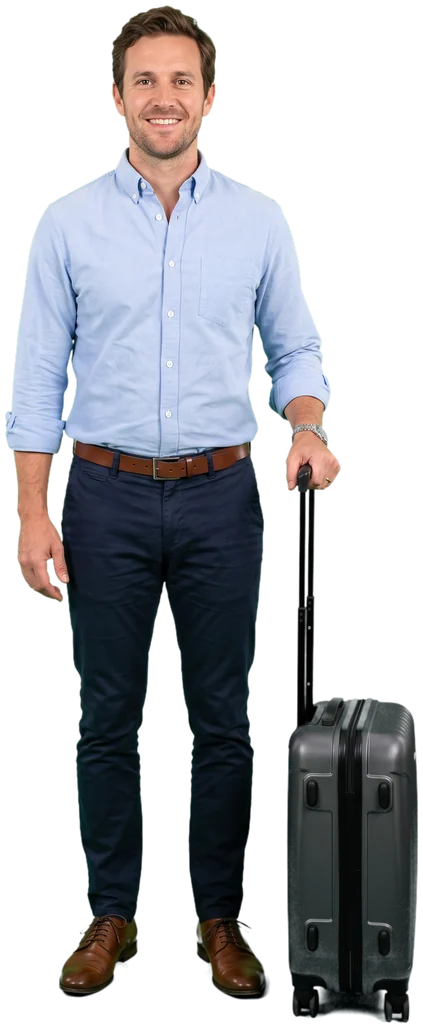
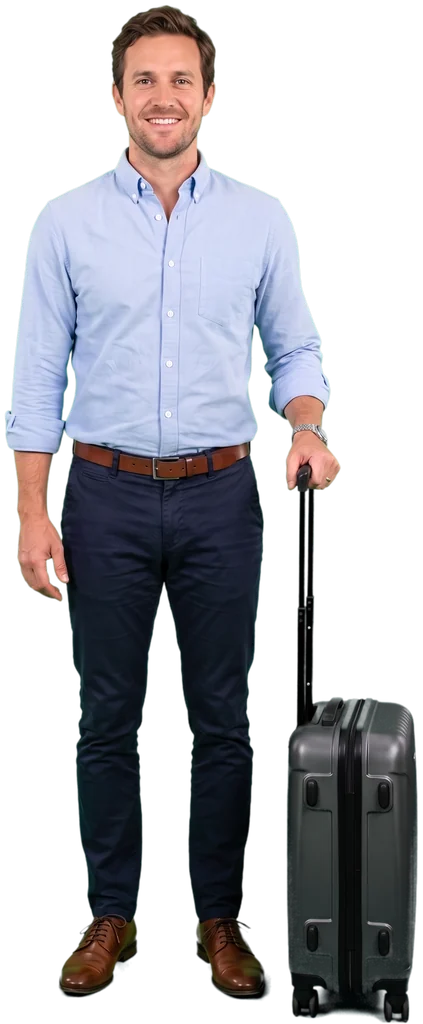
Profile: the photographed corridor film opens the main profile too; taller people
The main profile now opens with the same scroll-driven corridor film as the
cinematic draft, ending at the closed door of a unit and fading into the next
section. The draft's photo feature cards stay a setting (photoCards in
data.json), off here.

Rashid has a new picture with the ghutra and agal set the Emirati way, like
the owner's reference, plus a standing picture for his room scenes; James is
taller. Both stand taller in the 3D view. New photos of Rashid's living room,
crowded and tidy, for his story.

Claude-Session: https://claude.ai/code/session_01TqqT4jen4ojND2s3ts632h

diff --git a/profile/assets/js/data.js b/profile/assets/js/data.js
@@ -1,1 +1,1 @@
-window.RV_DATA={"phone":"+971503250551","phoneDisplay":"050 325 0551","wa":"971503250551","email":"info@ravelstorage.com","site":"https://ravelstorage.com","instagram":"https://www.instagram.com/ravelstorage/","height":3,"sizes":[{"a":1,"w":1,"d":1,"exact":true,"price":300,"photo":"unit-1","fits":"r1"},{"a":2,"w":1,"d":2,"exact":true,"price":400,"photo":null,"fits":"r1"},{"a":4,"w":2,"d":2,"exact":true,"price":600,"photo":null,"fits":"r2"},{"a":5,"w":2,"d":2.5,"exact":true,"price":700,"photo":null,"fits":"r2"},{"a":6,"w":2,"d":3,"exact":true,"price":800,"photo":"unit-6","fits":"r2"},{"a":7,"w":2,"d":3.5,"exact":true,"price":900,"photo":null,"fits":"r2p"},{"a":8,"w":2,"d":4,"exact":true,"price":1000,"photo":null,"fits":"r2p"},{"a":9,"w":3,"d":3,"exact":true,"price":1100,"photo":null,"fits":"r3"},{"a":10,"w":2.5,"d":4,"exact":true,"price":1200,"photo":null,"fits":"r3"},{"a":12,"w":3,"d":4,"exact":true,"price":1500,"photo":null,"fits":"r3"},{"a":15,"w":3,"d":5,"exact":true,"price":null,"photo":"unit-15","fits":"r4"},{"a":16,"w":4,"d":4,"exact":true,"price":2000,"photo":null,"fits":"r4"},{"a":20,"w":4,"d":5,"exact":true,"price":2400,"photo":null,"fits":"r4"},{"a":25,"w":5,"d":5,"exact":true,"price":3000,"photo":"unit-25","fits":"r5"},{"a":30,"w":5,"d":6,"exact":true,"price":3500,"photo":null,"fits":"r5"},{"a":50,"w":5,"d":10,"exact":true,"price":null,"photo":null,"fits":"r6"},{"a":100,"w":10,"d":10,"exact":true,"price":null,"photo":"unit-100","fits":"r7"}],"guide":[{"from":1,"to":2,"fits":"r1","show":1},{"from":4,"to":6,"fits":"r2","show":4},{"from":7,"to":8,"fits":"r2p","show":7},{"from":9,"to":12,"fits":"r3","show":9},{"from":15,"to":20,"fits":"r4","show":15},{"from":20,"to":30,"fits":"r5","show":25},{"from":30,"to":50,"fits":"r6","show":50},{"from":50,"to":100,"fits":"r7","show":100}],"photos":{"unit-1":[1038,1530],"unit-6":[742,1012],"unit-15":[748,1012],"unit-25":[960,890],"unit-100":[1325,676]},"branches":[{"id":"mu","name":"b.mu"},{"id":"mf","name":"b.mf"}],"strings":{"meta.title":["رافل للتخزين | Ravel Storage","Ravel Storage | Self-storage in Abu Dhabi"],"meta.desc":["وحدات تخزين خاصة للأفراد والشركات في أبوظبي من 1 إلى 500 م². استكشف المساحات والأسعار واطلب وحدتك عبر واتساب.","Private storage units for individuals and businesses in Abu Dhabi, from 1 to 500 m². Explore sizes and prices and request your unit on WhatsApp."],"a11y.skip":["تخطَّ إلى المحتوى","Skip to content"],"a11y.menu":["القائمة","Menu"],"a11y.close":["إغلاق","Close"],"a11y.lang":["Switch to English","التحويل إلى العربية"],"a11y.logo":["رافل للتخزين","Ravel Storage"],"a11y.progress":["تقدّمك في الممر","Your progress along the corridor"],"lang.other":["EN","عربي"],"nav.service":["من نحن","About us"],"nav.units":["الوحدات والأسعار","Units and prices"],"nav.helper":["المساحة المناسبة","The right size"],"nav.why":["لماذا رافل","Why Ravel"],"nav.journey":["خطوات الحجز","How to book"],"nav.faq":["أسئلة سريعة","Quick answers"],"nav.contact":["احجز الآن","Book now"],"menu.lite":["وضع خفيف بدون مجسّمات","Lite mode without 3D"],"menu.liteHint":["أسرع على الأجهزة والشبكات الضعيفة","Faster on slow devices and networks"],"hero.h1":["مخزنك الخاص،<br>بمساحتك المناسبة","Your own storage,<br>in the right size"],"hero.sub":["وحدات تخزين خاصة للأفراد والشركات في أبوظبي. استأجر المساحة التي تحتاجها فقط، وادخل إليها متى شئت.","Private storage units for individuals and businesses in Abu Dhabi. Rent only the space you need and access it whenever you like."],"hero.chip1":["من <b>1</b> إلى <b>500</b> م²","<b>1</b> to <b>500</b> m²"],"hero.chip2":["دخول <b>24/7</b>","<b>24/7</b> access"],"hero.chip3":["مصفح والمفرق","Mussafah &amp; Al Mafraq"],"hero.cta1":["اكتشف وحدتك المناسبة","Find your unit"],"hero.cta2":["تواصل معنا","Contact us"],"hero.hint":["اسحب وامشِ في الممر","Scroll to walk the corridor"],"film.s1":["الدخول","Entrance"],"film.s2":["الممر","Corridor"],"film.s3":["وحدتك","Your unit"],"film.skip":["تخطي","Skip"],"film.note":["مشهد توضيحي","Illustrative scene"],"s.eyebrow":["من نحن","About us"],"s.h2":["وحدتك الخاصة، بمفتاحك أنت","Your private unit, your own key"],"s.p":["رافل للتخزين توفر وحدات تخزين مقفلة داخل مستودعات منظمة في مصفح والمفرق. تستأجر المساحة التي تحتاجها فقط، تضع أغراضك، وتعود إليها متى شئت.","Ravel Storage offers lockable storage units inside organised warehouses in Mussafah and Al Mafraq. You rent only the space you need, store your belongings, and come back to them whenever you like."],"s.who":["متى تحتاج مساحة تخزين؟","When do you need storage?"],"s.ind":["للأفراد","For individuals"],"s.biz":["للشركات","For businesses"],"s.ind1":["انتقال إلى بيت جديد أو تجديد المنزل","Moving home or renovating"],"s.ind2":["سفر أو إجازة طويلة","Travel or a long holiday"],"s.ind3":["أثاث وأغراض موسمية تزحم البيت","Seasonal furniture and items crowding the house"],"s.biz1":["مخزون ومعدات المطاعم والمحلات","Stock and equipment for restaurants and shops"],"s.biz2":["بضائع المتاجر الإلكترونية","Online store inventory"],"s.biz3":["أرشيف وملفات ومعدات شركات النقل والمقاولات","Archives, files and equipment for transport and contracting companies"],"s.photo":["صورة حقيقية من رافل: وحدة 25 م² (5 × 5 م)","Real photo from Ravel: a 25 m² unit (5 × 5 m)"],"s.open":["اضغط لتفتح وحدتك","Tap to open your unit"],"s.lock":["أقفل الوحدة","Lock the unit"],"s.cta":["استكشف الوحدات","Explore the units"],"u.eyebrow":["وحداتنا ومساحاتنا","Units &amp; spaces"],"u.h2":["ادفع لمساحتك فقط، لا أكثر","Pay only for the space you use"],"u.p":["اختر المساحة وشاهد وحدتك بحجمها الحقيقي. ارتفاع الوحدات 3 أمتار، فتستفيد من المساحة طولاً وعرضاً وارتفاعاً.","Pick a size and see your unit at true scale. Units are 3 metres high, so you use the space in length, width and height."],"u.pick":["اسحب المسطرة واختر المساحة بالمتر المربع","Drag the ruler to choose a size in square metres"],"u.more":["أكبر","Larger"],"u.view3d":["مجسّم","3D"],"u.viewPlan":["مخطط","Plan"],"u.viewPhoto":["صورة حقيقية","Photo"],"u.viewCompare":["مقارنة","Compare"],"u.views":["طريقة العرض","View"],"u.drag":["اسحب للتدوير · اضغط لفتح الباب","Drag to turn · tap to open the door"],"u.doorOpen":["افتح الوحدة","Open the unit"],"u.doorClose":["أغلق الوحدة","Close the unit"],"u.itemsOn":["مع أمثلة أغراض","With example items"],"u.itemsOff":["فارغة","Empty"],"u.dims":["الأبعاد","Dimensions"],"u.height":["الارتفاع","Height"],"u.volume":["الحجم","Volume"],"u.fits":["تناسب تقريباً","Roughly fits"],"u.price":["الإيجار الشهري","Monthly rent"],"u.priceAsk":["السعر","Price"],"u.otherTerms":["يتوفر أيضاً إيجار يومي وسنوي","Daily and yearly rental also available"],"u.priceNote":["حسب قائمة الأسعار في الملف التعريفي. التوفر والسعر النهائي يؤكَّدان عند الحجز.","From the profile's price list. Availability and final price are confirmed when you book."],"u.quote":["يرجى الاستفسار","Please enquire"],"u.quoteNote":["عبر الاتصال أو الواتساب","By phone or WhatsApp"],"u.cta":["اطلب هذه الوحدة","Request this unit"],"u.callAsk":["اتصل للاستفسار","Call to enquire"],"u.save":["احفظ الوحدة","Save unit"],"u.saved":["محفوظة","Saved"],"u.savedToast":["حفظنا وحدتك المفضلة: {a} م²","Saved your preferred unit: {a} m²"],"u.unsure":["غير متأكد من المساحة؟","Not sure about the size?"],"u.photoCap":["صورة حقيقية لوحدة {a} م²","Real photo of a {a} m² unit"],"u.photoNear":["أقرب صورة متوفرة: وحدة {a} م²","Closest available photo: a {a} m² unit"],"u.example":["الأغراض مثال توضيحي تقريبي","Items shown are an illustrative example"],"u.open":["مساحة كبيرة","Large space"],"u.openNote":["للمساحات الكبيرة حتى 500 م² يرجى الاستفسار عبر الاتصال أو الواتساب.","For large spaces up to 500 m², please enquire by phone or WhatsApp."],"u.slider":["المساحة المطلوبة","Space required"],"u.person":["شخص بطول 1.75 م للمقارنة","A 1.75 m person for scale"],"who.pick":["اختر الشخصية","Choose a character"],"who.rashid":["راشد","Rashid"],"who.james":["جيمس","James"],"who.rashidD":["وفّر مساحة أكبر في منزله بتخزين أغراضه في Ravel.","Made more room at home by storing his things with Ravel."],"who.jamesD":["مسافر لمدة 6 أشهر.<br>وفّر 6,600 درهم شهرياً بتخزين أثاثه بدلاً من الاحتفاظ بشقته.","Travelling for 6 months.<br>Saved AED 6,600/month by storing his furniture instead of keeping his apartment."],"who.play":["شاهد رحلة جيمس","Watch James's story"],"who.playR":["شاهد قصة راشد","Watch Rashid's story"],"who.tag":["مثال توضيحي","Illustrative example"],"u.lite":["المجسّم متوقف في الوضع الخفيف","3D is off in lite mode"],"u.liteOn":["شغّل المجسّم","Turn 3D on"],"cmp.title":["كل الأحجام بشكلها الحقيقي وبمقياس واحد","Every size in its true shape, at one scale"],"cmp.car":["سيارة","Car"],"cmp.tap":["كل مربع = 1 م². اضغط على أي مساحة لاختيارها.","Each square = 1 m². Tap any size to select it."],"cmp.w":["العرض","Width"],"cmp.l":["الطول","Length"],"fits.r1":["كراتين، حقائب، أغراض شخصية صغيرة","Boxes, suitcases, small personal items"],"fits.r2":["أثاث استوديو (غرفة)","Studio furniture (one room)"],"fits.r2p":["أثاث غرفة وصالة","Furniture of a one-bedroom apartment"],"fits.r3":["محتويات أكثر من غرفة وصالة وأقل من غرفتين","More than a one-bedroom apartment, less than a two-bedroom"],"fits.r4":["أثاث غرفتين وصالة","Furniture of a two-bedroom apartment"],"fits.r5":["ثلاث غرف وصالة أو فيلا صغيرة","A three-bedroom apartment or a small villa"],"fits.r6":["مخزون وبضائع شركات أو محلات","Stock and goods for companies or shops"],"fits.r7":["بضائع ومعدات بكميات كبيرة","Goods and equipment in volume"],"fits.open":["بضائع ومعدات بكميات كبيرة","Goods and equipment in volume"],"fits.note":["تختلف المساحة حسب حجم الأثاث وعدد القطع التي تم فكها وتغليفها.","The space needed varies with the size of the furniture and how many pieces are dismantled and wrapped."],"h.eyebrow":["المساحة المناسبة","The right size"],"h.h2":["ما تعرف كم تحتاج مساحة؟","Not sure how much space you need?"],"h.p":["أرسل لنا صور أغراضك ونقترح لك المساحة الأنسب. وللتقدير السريع، هذا دليل تقريبي للمساحات.","Send us photos of your items and we suggest the best size. For a quick idea, here is a rough size guide."],"h.o1b":["الاقتراح الأدق","Most accurate"],"h.o1":["أرسل لنا صور أغراضك","Send us photos of your items"],"h.o1d":["أرسل صوراً أو قائمة بأغراضك على واتساب، ويقترح لك فريق رافل المساحة الأنسب.","Send photos or a list of your items on WhatsApp and the Ravel team suggests the best size."],"h.sendPhotos":["أرسل صور أغراضك","Send photos of your items"],"h.guide":["دليل سريع للمساحات","Quick size guide"],"h.guideNote":["<b>ملاحظة:</b> تختلف المساحة حسب حجم الأثاث وعدد القطع التي تم فكها وتغليفها.","<b>Note:</b> the space needed varies with the size of the furniture and how many pieces are dismantled and wrapped."],"h.guideTap":["اضغط على أي صف لتشاهد الوحدة","Tap a row to see the unit"],"p.colA":["المساحة <small>م²</small>","Area <small>m²</small>"],"p.colV":["الحجم <small>م³</small>","Volume <small>m³</small>"],"p.colP":["الإيجار الشهري <small>درهم</small>","Monthly rent <small>AED</small>"],"p.tap":["اضغط على أي صف لاختيار المساحة","Tap a row to select that size"],"p.all":["جدول الأسعار","Price list"],"p.big":["للمساحات الأكبر (حتى 500 م²) يرجى الاستفسار عبر الاتصال أو الواتساب.","For larger spaces (up to 500 m²), please enquire by phone or WhatsApp."],"p.term":["مدة الإيجار والدفع","Rental term and payment"],"p.term1":["نوفر دفعات مرنة: إيجار يومي، شهري، أو سنوي.","Flexible payments: daily, monthly or yearly rental."],"p.term2":["الدفع بعد توقيع العقد.","Payment is made after the contract is signed."],"p.term3":["أسعار الجدول للإيجار الشهري. لأسعار الإيجار اليومي والسنوي يرجى الاستفسار.","The table shows monthly rent. Please enquire for daily and yearly prices."],"p.term4":["<b>ملاحظة:</b> عند تغيير نوع الإيجار، مثلاً من شهري إلى يومي، يجب إبلاغنا قبل موعد تجديد الإيجار الشهري.","<b>Note:</b> to change the rental type, for example from monthly to daily, tell us before the renewal date of the monthly rental."],"p.selected":["اخترت {a} م² بإيجار {p} درهم شهرياً","Selected: {a} m² at AED {p} per month"],"p.view":["شاهدها بالمجسّم","See it in 3D"],"cur":["درهم","AED"],"perMonth":["شهرياً","per month"],"m2":["م²","m²"],"m3":["م³","m³"],"m":["م","m"],"f.eyebrow":["مميزاتنا","Features"],"f.h2":["لماذا رافل؟","Why Ravel?"],"f.1t":["وحدة خاصة مقفلة","Private unit"],"f.1d":["باب وقفل لكل وحدة، ولا أحد يدخلها غيرك.","A door and a lock for every unit. No one enters it but you."],"f.2t":["نظيفة ومحمية من الحشرات","Clean &amp; pest-controlled"],"f.2d":["ممرات ووحدات نظيفة ومرتبة، مع مكافحة للحشرات.","Clean, tidy corridors and units, with pest control."],"f.3t":["دخول 24/7","24/7 access"],"f.3d":["أغراضك متاحة لك في أي ساعة، دون انتظار دوام.","Your belongings are available at any hour, with no opening times to wait for."],"f.4t":["وحدات مكيّفة","Climate controlled"],"f.4d":["وحدات مكيّفة وغير مكيّفة. اسأل عن المتوفر عند الحجز.","Air-conditioned and non-air-conditioned units. Ask what is available when booking."],"f.4b":["حسب نوع الوحدة","Depends on unit type"],"f.5t":["حارس أمن","Security"],"f.5d":["وجود بشري في الموقع، لا كاميرات فقط.","A security guard on site, not just cameras."],"f.6t":["كاميرات مراقبة","CCTV cameras"],"f.6d":["الممرات والمداخل مراقبة على مدار الساعة.","Corridors and entrances are monitored around the clock."],"f.more":["وأيضاً","Also"],"f.x1t":["طفايات حريق","Fire extinguishers"],"f.x1d":["تجهيزات سلامة داخل المستودع.","Safety equipment inside the warehouse."],"f.x2t":["رافعة شوكية بالساعة","Forklift by the hour"],"f.x2d":["لتحميل وتنزيل الأغراض الثقيلة بسهولة.","For loading and unloading heavy items with ease."],"f.tabs":["المميزات","Features"],"f.hint":["اسحب البطاقة لترى الميزة التالية","Drag the card to see the next feature"],"f.prev":["السابق","Previous"],"f.next":["التالي","Next"],"f.note":["الصور توضيحية","Illustrative images"],"j.eyebrow":["كيف تبدأ؟","Getting started"],"j.h2":["أربع مراحل ووحدتك جاهزة","Four stages and your unit is ready"],"j.1t":["اختر المساحة المناسبة","Choose the right size"],"j.1d":["أرسل لنا صور أو قائمة أغراضك على واتساب، ونقترح لك المساحة الأنسب. وللتقدير السريع شاهد دليل المساحات.","Send us photos or a list of your items on WhatsApp, and we suggest the best size. For a quick idea, see the size guide."],"j.1c":["أرسل صور أغراضك","Send photos of your items"],"j.1c2":["دليل المساحات","Size guide"],"j.2t":["تواصل معنا وأكّد التفاصيل","Contact us and confirm the details"],"j.2d":["يؤكد لك فريق رافل المساحة والتوفر والمنطقة ونوع الوحدة، مكيّفة أو غير مكيّفة.","The Ravel team confirms the size, availability, area and unit type, air-conditioned or not."],"j.2c":["راسلنا على واتساب","Message us on WhatsApp"],"j.3t":["احجز الوحدة وأكمل الإجراءات","Book the unit and finish the paperwork"],"j.3d":["أرسل صورة الهوية (وصورة الرخصة التجارية للشركات) ووقّع عقد الإيجار، عبر واتساب أو البريد دون زيارة الفرع. الدفع بعد توقيع العقد.","Send a photo of your ID (and of the trade licence for companies) and sign the rental contract, over WhatsApp or email, without visiting the branch. Payment is made after the contract is signed."],"j.4t":["خزّن أغراضك وادخل إليها متى شئت","Store your items and access them any time"],"j.4d":["وحدتك جاهزة. انقل أغراضك وخزّنها، وادخل إليها 24/7. وللأغراض الثقيلة تتوفر رافعة شوكية بالساعة.","Your unit is ready. Move your items in and access them 24/7. A forklift is available by the hour for heavy items."],"j.4c":["احجز وحدتك الآن","Book your unit now"],"j.hint":["اسحب لترى المرحلة التالية","Swipe to see the next stage"],"b.mu":["مصفح","Mussafah"],"b.mf":["المفرق","Al Mafraq"],"q.eyebrow":["أسئلة سريعة","Quick answers"],"q.h2":["كل ما يهمك قبل الحجز","Everything you need before booking"],"q.1":["كيف أعرف المساحة المناسبة؟","How do I know the right size?"],"q.1a":["أرسل لنا قائمة أو صور أغراضك ونقترح لك المساحة الأنسب. وللتقدير السريع شاهد دليل المساحات.","Send us a list or photos of your items and we suggest the best size. For a quick idea, see the size guide."],"q.2":["عندي أغراض ثقيلة؟","What if I have heavy items?"],"q.2a":["يمكنك استئجار رافعة شوكية بالساعة.","You can hire a forklift by the hour."],"q.3":["هل يجب أن أزور الفرع للحجز؟","Do I have to visit the branch to book?"],"q.3a":["لا. يمكنك الحجز بإرسال المستندات عبر واتساب أو البريد.","No. You can book by sending your documents over WhatsApp or email."],"q.4":["ما الممنوع تخزينه؟","What can I not store?"],"q.4a":["المواد القابلة للاشتعال، المواد الغذائية سريعة التلف، الحيوانات، وأي شيء غير قانوني.","Flammable materials, perishable food, animals and anything illegal."],"q.helper":["شاهد دليل المساحات","See the size guide"],"c.h2":["احجز وحدتك الآن","Book your unit now"],"c.p":["راسلنا على واتساب أو اتصل بنا، ونرد عليك بالمساحة المناسبة والتوفر.","Message us on WhatsApp or call, and we will come back with the right size and availability."],"c.wa":["واتساب","WhatsApp"],"c.call":["اتصال","Call"],"c.copy":["نسخ الرقم","Copy"],"c.copied":["تم نسخ الرقم","Number copied"],"cs.telH":["رقم الاتصال","Phone number"],"cs.telP":["إذا لم يبدأ الاتصال، انسخ الرقم أو راسلنا على واتساب.","If the call did not start, copy the number or message us on WhatsApp."],"cs.mailH":["البريد الإلكتروني","Email"],"cs.mailP":["إذا لم يفتح تطبيق البريد، انسخ العنوان أو راسلنا على واتساب.","If your mail app did not open, copy the address or message us on WhatsApp."],"cs.copyMail":["نسخ العنوان","Copy address"],"cs.copiedMail":["تم نسخ العنوان","Address copied"],"c.formH":["اطلب عرض سعر","Request a quote"],"c.size":["المساحة","Size"],"c.sizeAny":["لا أعرف، ساعدوني في الاختيار","Not sure, help me choose"],"c.sizeBig":["أكثر من 100 م²","More than 100 m²"],"c.branch":["المنطقة","Area"],"c.branchAny":["أي منطقة","Any area"],"c.preview":["هذه هي الرسالة التي ستُرسل على واتساب:","This is the message that will be sent on WhatsApp:"],"c.send":["أرسل الطلب على واتساب","Send request on WhatsApp"],"c.privacy":["لا نرسل أي معلومة غير ما تراه في الرسالة.","Nothing is sent beyond what you see in this message."],"c.loc":["أبوظبي · مصفح · المفرق","Abu Dhabi · Mussafah · Al Mafraq"],"c.rights":["رافل للتخزين، أبوظبي","Ravel Storage, Abu Dhabi"],"c.top":["العودة إلى بداية الممر","Back to the start of the corridor"],"d.wa":["واتساب","WhatsApp"],"d.call":["اتصال","Call"],"d.my":["{a} م²","{a} m²"],"d.myLabel":["وحدتي المحفوظة: {a} م²","My saved unit: {a} m²"],"d.ask":["اسأل عن {a} م²","Ask about {a} m²"],"wa.hello":["السلام عليكم،","Hello,"],"wa.unit":["أرغب في الاستفسار عن وحدة تخزين في رافل:","I am interested in a storage unit at Ravel Storage:"],"wa.size":["المساحة: {a} م²","Size: {a} m²"],"wa.branch":["المنطقة: {b}","Area: {b}"],"wa.ask":["هل يمكن تأكيد التوفر والسعر؟","Could you confirm availability and price?"],"wa.quote":["أرغب في عرض سعر لوحدة تخزين:","I would like a quote for a storage unit:"],"wa.sizeAny":["المساحة: أحتاج مساعدة في الاختيار","Size: I need help choosing"],"wa.general":["أرغب في الاستفسار عن وحدات التخزين في رافل.","I would like to ask about storage units at Ravel Storage."],"wa.photos":["سأرسل لكم صور أو قائمة أغراضي لتقترحوا المساحة المناسبة.","I will send you photos or a list of my items so you can suggest the right size."],"wa.big":["أحتاج مساحة تخزين كبيرة نحو {a} م².","I need a large storage space of about {a} m²."],"wa.bigAsk":["أرغب في الاستفسار عن مساحة تخزين كبيرة.","I would like to enquire about a large storage space."]},"film":{"n":98,"w":720,"h":1280,"cuts":[42,72],"note":"The film stops on frame 97, facing the closed door of C-06; the third generated shot (98-127) is not used."}};
+window.RV_DATA={"phone":"+971503250551","phoneDisplay":"050 325 0551","wa":"971503250551","email":"info@ravelstorage.com","site":"https://ravelstorage.com","instagram":"https://www.instagram.com/ravelstorage/","height":3,"photoCards":false,"sizes":[{"a":1,"w":1,"d":1,"exact":true,"price":300,"photo":"unit-1","fits":"r1"},{"a":2,"w":1,"d":2,"exact":true,"price":400,"photo":null,"fits":"r1"},{"a":4,"w":2,"d":2,"exact":true,"price":600,"photo":null,"fits":"r2"},{"a":5,"w":2,"d":2.5,"exact":true,"price":700,"photo":null,"fits":"r2"},{"a":6,"w":2,"d":3,"exact":true,"price":800,"photo":"unit-6","fits":"r2"},{"a":7,"w":2,"d":3.5,"exact":true,"price":900,"photo":null,"fits":"r2p"},{"a":8,"w":2,"d":4,"exact":true,"price":1000,"photo":null,"fits":"r2p"},{"a":9,"w":3,"d":3,"exact":true,"price":1100,"photo":null,"fits":"r3"},{"a":10,"w":2.5,"d":4,"exact":true,"price":1200,"photo":null,"fits":"r3"},{"a":12,"w":3,"d":4,"exact":true,"price":1500,"photo":null,"fits":"r3"},{"a":15,"w":3,"d":5,"exact":true,"price":null,"photo":"unit-15","fits":"r4"},{"a":16,"w":4,"d":4,"exact":true,"price":2000,"photo":null,"fits":"r4"},{"a":20,"w":4,"d":5,"exact":true,"price":2400,"photo":null,"fits":"r4"},{"a":25,"w":5,"d":5,"exact":true,"price":3000,"photo":"unit-25","fits":"r5"},{"a":30,"w":5,"d":6,"exact":true,"price":3500,"photo":null,"fits":"r5"},{"a":50,"w":5,"d":10,"exact":true,"price":null,"photo":null,"fits":"r6"},{"a":100,"w":10,"d":10,"exact":true,"price":null,"photo":"unit-100","fits":"r7"}],"guide":[{"from":1,"to":2,"fits":"r1","show":1},{"from":4,"to":6,"fits":"r2","show":4},{"from":7,"to":8,"fits":"r2p","show":7},{"from":9,"to":12,"fits":"r3","show":9},{"from":15,"to":20,"fits":"r4","show":15},{"from":20,"to":30,"fits":"r5","show":25},{"from":30,"to":50,"fits":"r6","show":50},{"from":50,"to":100,"fits":"r7","show":100}],"photos":{"unit-1":[1038,1530],"unit-6":[742,1012],"unit-15":[748,1012],"unit-25":[960,890],"unit-100":[1325,676]},"branches":[{"id":"mu","name":"b.mu"},{"id":"mf","name":"b.mf"}],"strings":{"meta.title":["رافل للتخزين | Ravel Storage","Ravel Storage | Self-storage in Abu Dhabi"],"meta.desc":["وحدات تخزين خاصة للأفراد والشركات في أبوظبي من 1 إلى 500 م². استكشف المساحات والأسعار واطلب وحدتك عبر واتساب.","Private storage units for individuals and businesses in Abu Dhabi, from 1 to 500 m². Explore sizes and prices and request your unit on WhatsApp."],"a11y.skip":["تخطَّ إلى المحتوى","Skip to content"],"a11y.menu":["القائمة","Menu"],"a11y.close":["إغلاق","Close"],"a11y.lang":["Switch to English","التحويل إلى العربية"],"a11y.logo":["رافل للتخزين","Ravel Storage"],"a11y.progress":["تقدّمك في الممر","Your progress along the corridor"],"lang.other":["EN","عربي"],"nav.service":["من نحن","About us"],"nav.units":["الوحدات والأسعار","Units and prices"],"nav.helper":["المساحة المناسبة","The right size"],"nav.why":["لماذا رافل","Why Ravel"],"nav.journey":["خطوات الحجز","How to book"],"nav.faq":["أسئلة سريعة","Quick answers"],"nav.contact":["احجز الآن","Book now"],"menu.lite":["وضع خفيف بدون مجسّمات","Lite mode without 3D"],"menu.liteHint":["أسرع على الأجهزة والشبكات الضعيفة","Faster on slow devices and networks"],"hero.h1":["مخزنك الخاص،<br>بمساحتك المناسبة","Your own storage,<br>in the right size"],"hero.sub":["وحدات تخزين خاصة للأفراد والشركات في أبوظبي. استأجر المساحة التي تحتاجها فقط، وادخل إليها متى شئت.","Private storage units for individuals and businesses in Abu Dhabi. Rent only the space you need and access it whenever you like."],"hero.chip1":["من <b>1</b> إلى <b>500</b> م²","<b>1</b> to <b>500</b> m²"],"hero.chip2":["دخول <b>24/7</b>","<b>24/7</b> access"],"hero.chip3":["مصفح والمفرق","Mussafah &amp; Al Mafraq"],"hero.cta1":["اكتشف وحدتك المناسبة","Find your unit"],"hero.cta2":["تواصل معنا","Contact us"],"hero.hint":["اسحب وامشِ في الممر","Scroll to walk the corridor"],"film.s1":["الدخول","Entrance"],"film.s2":["الممر","Corridor"],"film.s3":["وحدتك","Your unit"],"film.skip":["تخطي","Skip"],"film.note":["مشهد توضيحي","Illustrative scene"],"s.eyebrow":["من نحن","About us"],"s.h2":["وحدتك الخاصة، بمفتاحك أنت","Your private unit, your own key"],"s.p":["رافل للتخزين توفر وحدات تخزين مقفلة داخل مستودعات منظمة في مصفح والمفرق. تستأجر المساحة التي تحتاجها فقط، تضع أغراضك، وتعود إليها متى شئت.","Ravel Storage offers lockable storage units inside organised warehouses in Mussafah and Al Mafraq. You rent only the space you need, store your belongings, and come back to them whenever you like."],"s.who":["متى تحتاج مساحة تخزين؟","When do you need storage?"],"s.ind":["للأفراد","For individuals"],"s.biz":["للشركات","For businesses"],"s.ind1":["انتقال إلى بيت جديد أو تجديد المنزل","Moving home or renovating"],"s.ind2":["سفر أو إجازة طويلة","Travel or a long holiday"],"s.ind3":["أثاث وأغراض موسمية تزحم البيت","Seasonal furniture and items crowding the house"],"s.biz1":["مخزون ومعدات المطاعم والمحلات","Stock and equipment for restaurants and shops"],"s.biz2":["بضائع المتاجر الإلكترونية","Online store inventory"],"s.biz3":["أرشيف وملفات ومعدات شركات النقل والمقاولات","Archives, files and equipment for transport and contracting companies"],"s.photo":["صورة حقيقية من رافل: وحدة 25 م² (5 × 5 م)","Real photo from Ravel: a 25 m² unit (5 × 5 m)"],"s.open":["اضغط لتفتح وحدتك","Tap to open your unit"],"s.lock":["أقفل الوحدة","Lock the unit"],"s.cta":["استكشف الوحدات","Explore the units"],"u.eyebrow":["وحداتنا ومساحاتنا","Units &amp; spaces"],"u.h2":["ادفع لمساحتك فقط، لا أكثر","Pay only for the space you use"],"u.p":["اختر المساحة وشاهد وحدتك بحجمها الحقيقي. ارتفاع الوحدات 3 أمتار، فتستفيد من المساحة طولاً وعرضاً وارتفاعاً.","Pick a size and see your unit at true scale. Units are 3 metres high, so you use the space in length, width and height."],"u.pick":["اسحب المسطرة واختر المساحة بالمتر المربع","Drag the ruler to choose a size in square metres"],"u.more":["أكبر","Larger"],"u.view3d":["مجسّم","3D"],"u.viewPlan":["مخطط","Plan"],"u.viewPhoto":["صورة حقيقية","Photo"],"u.viewCompare":["مقارنة","Compare"],"u.views":["طريقة العرض","View"],"u.drag":["اسحب للتدوير · اضغط لفتح الباب","Drag to turn · tap to open the door"],"u.doorOpen":["افتح الوحدة","Open the unit"],"u.doorClose":["أغلق الوحدة","Close the unit"],"u.itemsOn":["مع أمثلة أغراض","With example items"],"u.itemsOff":["فارغة","Empty"],"u.dims":["الأبعاد","Dimensions"],"u.height":["الارتفاع","Height"],"u.volume":["الحجم","Volume"],"u.fits":["تناسب تقريباً","Roughly fits"],"u.price":["الإيجار الشهري","Monthly rent"],"u.priceAsk":["السعر","Price"],"u.otherTerms":["يتوفر أيضاً إيجار يومي وسنوي","Daily and yearly rental also available"],"u.priceNote":["حسب قائمة الأسعار في الملف التعريفي. التوفر والسعر النهائي يؤكَّدان عند الحجز.","From the profile's price list. Availability and final price are confirmed when you book."],"u.quote":["يرجى الاستفسار","Please enquire"],"u.quoteNote":["عبر الاتصال أو الواتساب","By phone or WhatsApp"],"u.cta":["اطلب هذه الوحدة","Request this unit"],"u.callAsk":["اتصل للاستفسار","Call to enquire"],"u.save":["احفظ الوحدة","Save unit"],"u.saved":["محفوظة","Saved"],"u.savedToast":["حفظنا وحدتك المفضلة: {a} م²","Saved your preferred unit: {a} m²"],"u.unsure":["غير متأكد من المساحة؟","Not sure about the size?"],"u.photoCap":["صورة حقيقية لوحدة {a} م²","Real photo of a {a} m² unit"],"u.photoNear":["أقرب صورة متوفرة: وحدة {a} م²","Closest available photo: a {a} m² unit"],"u.example":["الأغراض مثال توضيحي تقريبي","Items shown are an illustrative example"],"u.open":["مساحة كبيرة","Large space"],"u.openNote":["للمساحات الكبيرة حتى 500 م² يرجى الاستفسار عبر الاتصال أو الواتساب.","For large spaces up to 500 m², please enquire by phone or WhatsApp."],"u.slider":["المساحة المطلوبة","Space required"],"u.person":["شخص بطول 1.75 م للمقارنة","A 1.75 m person for scale"],"who.pick":["اختر الشخصية","Choose a character"],"who.rashid":["راشد","Rashid"],"who.james":["جيمس","James"],"who.rashidD":["وفّر مساحة أكبر في منزله بتخزين أغراضه في Ravel.","Made more room at home by storing his things with Ravel."],"who.jamesD":["مسافر لمدة 6 أشهر.<br>وفّر 6,600 درهم شهرياً بتخزين أثاثه بدلاً من الاحتفاظ بشقته.","Travelling for 6 months.<br>Saved AED 6,600/month by storing his furniture instead of keeping his apartment."],"who.play":["شاهد رحلة جيمس","Watch James's story"],"who.playR":["شاهد قصة راشد","Watch Rashid's story"],"who.tag":["مثال توضيحي","Illustrative example"],"u.lite":["المجسّم متوقف في الوضع الخفيف","3D is off in lite mode"],"u.liteOn":["شغّل المجسّم","Turn 3D on"],"cmp.title":["كل الأحجام بشكلها الحقيقي وبمقياس واحد","Every size in its true shape, at one scale"],"cmp.car":["سيارة","Car"],"cmp.tap":["كل مربع = 1 م². اضغط على أي مساحة لاختيارها.","Each square = 1 m². Tap any size to select it."],"cmp.w":["العرض","Width"],"cmp.l":["الطول","Length"],"fits.r1":["كراتين، حقائب، أغراض شخصية صغيرة","Boxes, suitcases, small personal items"],"fits.r2":["أثاث استوديو (غرفة)","Studio furniture (one room)"],"fits.r2p":["أثاث غرفة وصالة","Furniture of a one-bedroom apartment"],"fits.r3":["محتويات أكثر من غرفة وصالة وأقل من غرفتين","More than a one-bedroom apartment, less than a two-bedroom"],"fits.r4":["أثاث غرفتين وصالة","Furniture of a two-bedroom apartment"],"fits.r5":["ثلاث غرف وصالة أو فيلا صغيرة","A three-bedroom apartment or a small villa"],"fits.r6":["مخزون وبضائع شركات أو محلات","Stock and goods for companies or shops"],"fits.r7":["بضائع ومعدات بكميات كبيرة","Goods and equipment in volume"],"fits.open":["بضائع ومعدات بكميات كبيرة","Goods and equipment in volume"],"fits.note":["تختلف المساحة حسب حجم الأثاث وعدد القطع التي تم فكها وتغليفها.","The space needed varies with the size of the furniture and how many pieces are dismantled and wrapped."],"h.eyebrow":["المساحة المناسبة","The right size"],"h.h2":["ما تعرف كم تحتاج مساحة؟","Not sure how much space you need?"],"h.p":["أرسل لنا صور أغراضك ونقترح لك المساحة الأنسب. وللتقدير السريع، هذا دليل تقريبي للمساحات.","Send us photos of your items and we suggest the best size. For a quick idea, here is a rough size guide."],"h.o1b":["الاقتراح الأدق","Most accurate"],"h.o1":["أرسل لنا صور أغراضك","Send us photos of your items"],"h.o1d":["أرسل صوراً أو قائمة بأغراضك على واتساب، ويقترح لك فريق رافل المساحة الأنسب.","Send photos or a list of your items on WhatsApp and the Ravel team suggests the best size."],"h.sendPhotos":["أرسل صور أغراضك","Send photos of your items"],"h.guide":["دليل سريع للمساحات","Quick size guide"],"h.guideNote":["<b>ملاحظة:</b> تختلف المساحة حسب حجم الأثاث وعدد القطع التي تم فكها وتغليفها.","<b>Note:</b> the space needed varies with the size of the furniture and how many pieces are dismantled and wrapped."],"h.guideTap":["اضغط على أي صف لتشاهد الوحدة","Tap a row to see the unit"],"p.colA":["المساحة <small>م²</small>","Area <small>m²</small>"],"p.colV":["الحجم <small>م³</small>","Volume <small>m³</small>"],"p.colP":["الإيجار الشهري <small>درهم</small>","Monthly rent <small>AED</small>"],"p.tap":["اضغط على أي صف لاختيار المساحة","Tap a row to select that size"],"p.all":["جدول الأسعار","Price list"],"p.big":["للمساحات الأكبر (حتى 500 م²) يرجى الاستفسار عبر الاتصال أو الواتساب.","For larger spaces (up to 500 m²), please enquire by phone or WhatsApp."],"p.term":["مدة الإيجار والدفع","Rental term and payment"],"p.term1":["نوفر دفعات مرنة: إيجار يومي، شهري، أو سنوي.","Flexible payments: daily, monthly or yearly rental."],"p.term2":["الدفع بعد توقيع العقد.","Payment is made after the contract is signed."],"p.term3":["أسعار الجدول للإيجار الشهري. لأسعار الإيجار اليومي والسنوي يرجى الاستفسار.","The table shows monthly rent. Please enquire for daily and yearly prices."],"p.term4":["<b>ملاحظة:</b> عند تغيير نوع الإيجار، مثلاً من شهري إلى يومي، يجب إبلاغنا قبل موعد تجديد الإيجار الشهري.","<b>Note:</b> to change the rental type, for example from monthly to daily, tell us before the renewal date of the monthly rental."],"p.selected":["اخترت {a} م² بإيجار {p} درهم شهرياً","Selected: {a} m² at AED {p} per month"],"p.view":["شاهدها بالمجسّم","See it in 3D"],"cur":["درهم","AED"],"perMonth":["شهرياً","per month"],"m2":["م²","m²"],"m3":["م³","m³"],"m":["م","m"],"f.eyebrow":["مميزاتنا","Features"],"f.h2":["لماذا رافل؟","Why Ravel?"],"f.1t":["وحدة خاصة مقفلة","Private unit"],"f.1d":["باب وقفل لكل وحدة، ولا أحد يدخلها غيرك.","A door and a lock for every unit. No one enters it but you."],"f.2t":["نظيفة ومحمية من الحشرات","Clean &amp; pest-controlled"],"f.2d":["ممرات ووحدات نظيفة ومرتبة، مع مكافحة للحشرات.","Clean, tidy corridors and units, with pest control."],"f.3t":["دخول 24/7","24/7 access"],"f.3d":["أغراضك متاحة لك في أي ساعة، دون انتظار دوام.","Your belongings are available at any hour, with no opening times to wait for."],"f.4t":["وحدات مكيّفة","Climate controlled"],"f.4d":["وحدات مكيّفة وغير مكيّفة. اسأل عن المتوفر عند الحجز.","Air-conditioned and non-air-conditioned units. Ask what is available when booking."],"f.4b":["حسب نوع الوحدة","Depends on unit type"],"f.5t":["حارس أمن","Security"],"f.5d":["وجود بشري في الموقع، لا كاميرات فقط.","A security guard on site, not just cameras."],"f.6t":["كاميرات مراقبة","CCTV cameras"],"f.6d":["الممرات والمداخل مراقبة على مدار الساعة.","Corridors and entrances are monitored around the clock."],"f.more":["وأيضاً","Also"],"f.x1t":["طفايات حريق","Fire extinguishers"],"f.x1d":["تجهيزات سلامة داخل المستودع.","Safety equipment inside the warehouse."],"f.x2t":["رافعة شوكية بالساعة","Forklift by the hour"],"f.x2d":["لتحميل وتنزيل الأغراض الثقيلة بسهولة.","For loading and unloading heavy items with ease."],"f.tabs":["المميزات","Features"],"f.hint":["اسحب البطاقة لترى الميزة التالية","Drag the card to see the next feature"],"f.prev":["السابق","Previous"],"f.next":["التالي","Next"],"f.note":["الصور توضيحية","Illustrative images"],"j.eyebrow":["كيف تبدأ؟","Getting started"],"j.h2":["أربع مراحل ووحدتك جاهزة","Four stages and your unit is ready"],"j.1t":["اختر المساحة المناسبة","Choose the right size"],"j.1d":["أرسل لنا صور أو قائمة أغراضك على واتساب، ونقترح لك المساحة الأنسب. وللتقدير السريع شاهد دليل المساحات.","Send us photos or a list of your items on WhatsApp, and we suggest the best size. For a quick idea, see the size guide."],"j.1c":["أرسل صور أغراضك","Send photos of your items"],"j.1c2":["دليل المساحات","Size guide"],"j.2t":["تواصل معنا وأكّد التفاصيل","Contact us and confirm the details"],"j.2d":["يؤكد لك فريق رافل المساحة والتوفر والمنطقة ونوع الوحدة، مكيّفة أو غير مكيّفة.","The Ravel team confirms the size, availability, area and unit type, air-conditioned or not."],"j.2c":["راسلنا على واتساب","Message us on WhatsApp"],"j.3t":["احجز الوحدة وأكمل الإجراءات","Book the unit and finish the paperwork"],"j.3d":["أرسل صورة الهوية (وصورة الرخصة التجارية للشركات) ووقّع عقد الإيجار، عبر واتساب أو البريد دون زيارة الفرع. الدفع بعد توقيع العقد.","Send a photo of your ID (and of the trade licence for companies) and sign the rental contract, over WhatsApp or email, without visiting the branch. Payment is made after the contract is signed."],"j.4t":["خزّن أغراضك وادخل إليها متى شئت","Store your items and access them any time"],"j.4d":["وحدتك جاهزة. انقل أغراضك وخزّنها، وادخل إليها 24/7. وللأغراض الثقيلة تتوفر رافعة شوكية بالساعة.","Your unit is ready. Move your items in and access them 24/7. A forklift is available by the hour for heavy items."],"j.4c":["احجز وحدتك الآن","Book your unit now"],"j.hint":["اسحب لترى المرحلة التالية","Swipe to see the next stage"],"b.mu":["مصفح","Mussafah"],"b.mf":["المفرق","Al Mafraq"],"q.eyebrow":["أسئلة سريعة","Quick answers"],"q.h2":["كل ما يهمك قبل الحجز","Everything you need before booking"],"q.1":["كيف أعرف المساحة المناسبة؟","How do I know the right size?"],"q.1a":["أرسل لنا قائمة أو صور أغراضك ونقترح لك المساحة الأنسب. وللتقدير السريع شاهد دليل المساحات.","Send us a list or photos of your items and we suggest the best size. For a quick idea, see the size guide."],"q.2":["عندي أغراض ثقيلة؟","What if I have heavy items?"],"q.2a":["يمكنك استئجار رافعة شوكية بالساعة.","You can hire a forklift by the hour."],"q.3":["هل يجب أن أزور الفرع للحجز؟","Do I have to visit the branch to book?"],"q.3a":["لا. يمكنك الحجز بإرسال المستندات عبر واتساب أو البريد.","No. You can book by sending your documents over WhatsApp or email."],"q.4":["ما الممنوع تخزينه؟","What can I not store?"],"q.4a":["المواد القابلة للاشتعال، المواد الغذائية سريعة التلف، الحيوانات، وأي شيء غير قانوني.","Flammable materials, perishable food, animals and anything illegal."],"q.helper":["شاهد دليل المساحات","See the size guide"],"c.h2":["احجز وحدتك الآن","Book your unit now"],"c.p":["راسلنا على واتساب أو اتصل بنا، ونرد عليك بالمساحة المناسبة والتوفر.","Message us on WhatsApp or call, and we will come back with the right size and availability."],"c.wa":["واتساب","WhatsApp"],"c.call":["اتصال","Call"],"c.copy":["نسخ الرقم","Copy"],"c.copied":["تم نسخ الرقم","Number copied"],"cs.telH":["رقم الاتصال","Phone number"],"cs.telP":["إذا لم يبدأ الاتصال، انسخ الرقم أو راسلنا على واتساب.","If the call did not start, copy the number or message us on WhatsApp."],"cs.mailH":["البريد الإلكتروني","Email"],"cs.mailP":["إذا لم يفتح تطبيق البريد، انسخ العنوان أو راسلنا على واتساب.","If your mail app did not open, copy the address or message us on WhatsApp."],"cs.copyMail":["نسخ العنوان","Copy address"],"cs.copiedMail":["تم نسخ العنوان","Address copied"],"c.formH":["اطلب عرض سعر","Request a quote"],"c.size":["المساحة","Size"],"c.sizeAny":["لا أعرف، ساعدوني في الاختيار","Not sure, help me choose"],"c.sizeBig":["أكثر من 100 م²","More than 100 m²"],"c.branch":["المنطقة","Area"],"c.branchAny":["أي منطقة","Any area"],"c.preview":["هذه هي الرسالة التي ستُرسل على واتساب:","This is the message that will be sent on WhatsApp:"],"c.send":["أرسل الطلب على واتساب","Send request on WhatsApp"],"c.privacy":["لا نرسل أي معلومة غير ما تراه في الرسالة.","Nothing is sent beyond what you see in this message."],"c.loc":["أبوظبي · مصفح · المفرق","Abu Dhabi · Mussafah · Al Mafraq"],"c.rights":["رافل للتخزين، أبوظبي","Ravel Storage, Abu Dhabi"],"c.top":["العودة إلى بداية الممر","Back to the start of the corridor"],"d.wa":["واتساب","WhatsApp"],"d.call":["اتصال","Call"],"d.my":["{a} م²","{a} m²"],"d.myLabel":["وحدتي المحفوظة: {a} م²","My saved unit: {a} m²"],"d.ask":["اسأل عن {a} م²","Ask about {a} m²"],"wa.hello":["السلام عليكم،","Hello,"],"wa.unit":["أرغب في الاستفسار عن وحدة تخزين في رافل:","I am interested in a storage unit at Ravel Storage:"],"wa.size":["المساحة: {a} م²","Size: {a} m²"],"wa.branch":["المنطقة: {b}","Area: {b}"],"wa.ask":["هل يمكن تأكيد التوفر والسعر؟","Could you confirm availability and price?"],"wa.quote":["أرغب في عرض سعر لوحدة تخزين:","I would like a quote for a storage unit:"],"wa.sizeAny":["المساحة: أحتاج مساعدة في الاختيار","Size: I need help choosing"],"wa.general":["أرغب في الاستفسار عن وحدات التخزين في رافل.","I would like to ask about storage units at Ravel Storage."],"wa.photos":["سأرسل لكم صور أو قائمة أغراضي لتقترحوا المساحة المناسبة.","I will send you photos or a list of my items so you can suggest the right size."],"wa.big":["أحتاج مساحة تخزين كبيرة نحو {a} م².","I need a large storage space of about {a} m²."],"wa.bigAsk":["أرغب في الاستفسار عن مساحة تخزين كبيرة.","I would like to enquire about a large storage space."]},"film":{"n":98,"w":720,"h":1280,"cuts":[42,72],"note":"The film stops on frame 97, facing the closed door of C-06; the third generated shot (98-127) is not used."}};

diff --git a/profile/index.html b/profile/index.html
@@ -1,9 +1,9 @@
 <!doctype html>
-<html lang="ar" dir="rtl" class="ph">
+<html lang="ar" dir="rtl">
 <head>
 <meta charset="utf-8">
 <meta name="viewport" content="width=device-width, initial-scale=1, viewport-fit=cover">
-<script>(function(d){var l='ar';try{l=localStorage.getItem('rv_lang')||'ar'}catch(e){}if(location.hash==='#en'||/[?&]lang=en/.test(location.search))l='en';d.lang=l==='en'?'en':'ar';d.dir=l==='en'?'ltr':'rtl';d.classList.add('js');var c=navigator.connection;d.classList.toggle('ph',!(c&&c.saveData));if(!(window.matchMedia&&matchMedia('(prefers-reduced-motion: reduce)').matches)){d.classList.add('fx');setTimeout(function(){if(!window.RVFX)d.classList.remove('fx')},4000)}})(document.documentElement)</script>
+<script>(function(d){var l='ar';try{l=localStorage.getItem('rv_lang')||'ar'}catch(e){}if(location.hash==='#en'||/[?&]lang=en/.test(location.search))l='en';d.lang=l==='en'?'en':'ar';d.dir=l==='en'?'ltr':'rtl';d.classList.add('js');var c=navigator.connection;d.classList.toggle('ph',false&&!(c&&c.saveData));if(!(window.matchMedia&&matchMedia('(prefers-reduced-motion: reduce)').matches)){d.classList.add('fx');setTimeout(function(){if(!window.RVFX)d.classList.remove('fx')},4000)}})(document.documentElement)</script>
 <title>رافل للتخزين | Ravel Storage</title>
 <meta name="description" content="وحدات تخزين خاصة للأفراد والشركات في أبوظبي من 1 إلى 500 م². استكشف المساحات والأسعار واطلب وحدتك عبر واتساب.">
 <meta name="theme-color" content="#152249">

diff --git a/profile/assets/js/app.js b/profile/assets/js/app.js
@@ -275,7 +275,7 @@
   }
   function updateViewer(instant) {
     var u = currentUnit(), layout = state.items ? buildLayout(u) : [];
-    if (viewer) { viewer.setPerson(personKind()); if (viewer.setPhoto) viewer.setPhoto(who() === 'rashid' ? { src: imgUrl('char-rashid'), h: 1.78 } : { src: imgUrl('char-james'), h: 1.83 }); viewer.setUnit(u, layout, unitTexts(u), instant); }
+    if (viewer) { viewer.setPerson(personKind()); if (viewer.setPhoto) viewer.setPhoto(who() === 'rashid' ? { src: imgUrl('char-rashid'), h: 1.96 } : { src: imgUrl('char-james'), h: 1.98 }); viewer.setUnit(u, layout, unitTexts(u), instant); }
     $('#unitPlan').innerHTML = planSvg(u, layout);
   }
   function nearestPhoto(u) {

diff --git a/profile/_src/template.html b/profile/_src/template.html
@@ -1,5 +1,5 @@
 <!doctype html>
-<html lang="ar" dir="rtl" class="ph">
+<html lang="ar" dir="rtl">
 <head>
 <meta charset="utf-8">
 <meta name="viewport" content="width=device-width, initial-scale=1, viewport-fit=cover">

diff --git a/profile/_src/build.py b/profile/_src/build.py
@@ -16,11 +16,11 @@ import argparse, base64, html, json, os, re
 HERE = os.path.dirname(os.path.abspath(__file__))
 ROOT = os.path.dirname(HERE)
 THREE_CDN = "https://cdnjs.cloudflare.com/ajax/libs/three.js/0.149.0/three.min.js"
-EARLY = ("<script>(function(d){var l='ar';try{l=localStorage.getItem('rv_lang')||'ar'}catch(e){}"
+EARLY_T = ("<script>(function(d){var l='ar';try{l=localStorage.getItem('rv_lang')||'ar'}catch(e){}"
          "if(location.hash==='#en'||/[?&]lang=en/.test(location.search))l='en';"
          "d.lang=l==='en'?'en':'ar';d.dir=l==='en'?'ltr':'rtl';d.classList.add('js');"
-         # the feature cards carry photographs, unless the visitor has asked the browser to save data
-         "var c=navigator.connection;d.classList.toggle('ph',!(c&&c.saveData));"
+         # the feature cards carry photographs (when data.json's "photoCards" is on), unless the visitor saves data
+         "var c=navigator.connection;d.classList.toggle('ph',PHOTOCARDS&&!(c&&c.saveData));"
          # motion is switched on before the first paint, and off again if the motion script never arrives
          "if(!(window.matchMedia&&matchMedia('(prefers-reduced-motion: reduce)').matches)){d.classList.add('fx');"
          "setTimeout(function(){if(!window.RVFX)d.classList.remove('fx')},4000)}"
@@ -89,6 +89,7 @@ def main():
     data_js = "window.RV_DATA=" + json.dumps(data, ensure_ascii=False, separators=(",", ":")) + ";"
     write(os.path.join(ROOT, "assets/js/data.js"), data_js)
 
+    EARLY = EARLY_T.replace("PHOTOCARDS", "true" if D.get("photoCards", True) else "false")
     page = tpl.replace("<!--HEAD-->", EARLY).replace("<!--/HEAD-->", "")
     page = page.replace("<!--BODY-->", "").replace("<!--/BODY-->", "")
     page = page.replace("<!--SCRIPTS-->", '<script src="assets/js/data.js" defer></script>\n<script src="assets/js/app.js" defer></script>\n<script src="assets/js/fx.js" defer></script>')
